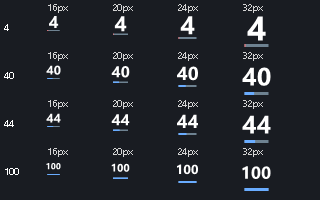
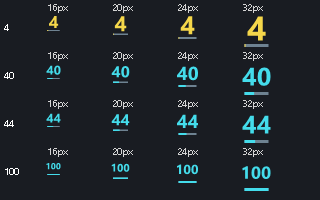
Color remaining quota by its pace against time to reset

diff --git a/TrayIcon.cs b/TrayIcon.cs
@@ -11,10 +11,22 @@ internal static class TrayIcon
     public static readonly Color Green = Color.FromArgb(89, 205, 164);
     public static readonly Color Amber = Color.FromArgb(247, 183, 83);
     public static readonly Color Red = Color.FromArgb(247, 112, 116);
-    public static Color ColorFor(double? remaining, int? duration = null) => remaining switch
-    {
-        <= 10 => Red, <= 25 => Amber, _ => duration == 300 ? Green : Blue
-    };
+    public static Color ColorFor(UsageWindow? window, DateTimeOffset now, bool lightBackground = false) =>
+        (window?.PaceAt(now) ?? UsagePace.Unknown, lightBackground) switch
+        {
+            (UsagePace.Ahead, false) => Color.FromArgb(68, 220, 235),
+            (UsagePace.OnTrack, false) => Green,
+            (UsagePace.Behind, false) => Color.FromArgb(245, 215, 74),
+            (UsagePace.FarBehind, false) => Color.FromArgb(255, 153, 64),
+            (UsagePace.Critical, false) => Red,
+            (UsagePace.Ahead, true) => Color.FromArgb(0, 111, 126),
+            (UsagePace.OnTrack, true) => Color.FromArgb(0, 117, 66),
+            (UsagePace.Behind, true) => Color.FromArgb(135, 105, 0),
+            (UsagePace.FarBehind, true) => Color.FromArgb(173, 75, 0),
+            (UsagePace.Critical, true) => Color.FromArgb(189, 38, 48),
+            (_, true) => Color.FromArgb(65, 73, 85),
+            _ => Color.FromArgb(164, 173, 188)
+        };
 
     public static Icon Create(UsageSnapshot? snapshot, bool stale)
     {
@@ -24,7 +36,7 @@ internal static class TrayIcon
         finally { DestroyIcon(handle); }
     }
 
-    public static Bitmap Draw(UsageSnapshot? snapshot, bool stale, int size)
+    public static Bitmap Draw(UsageSnapshot? snapshot, bool stale, int size, DateTimeOffset? at = null, bool? lightBackground = null)
     {
         var bitmap = new Bitmap(size, size);
         using var graphics = Graphics.FromImage(bitmap);
@@ -35,7 +47,8 @@ internal static class TrayIcon
         var window = snapshot?.MostLimited;
         // A stale number must not masquerade as current usage.
         var label = stale ? "!" : window?.Remaining is { } remaining ? $"{Math.Floor(remaining):0}" : "–";
-        using var brush = new SolidBrush(stale ? Amber : IsLightTaskbar() ? Color.FromArgb(25, 31, 42) : Color.White);
+        var color = ColorFor(window, at ?? DateTimeOffset.UtcNow, lightBackground ?? IsLightTaskbar());
+        using var brush = new SolidBrush(stale ? Amber : color);
         // Fit the actual glyph outlines instead of relying on DrawString layout,
         // which can wrap or clip digits in a tiny DPI-scaled icon.
         using var family = new FontFamily("Segoe UI");
@@ -52,7 +65,7 @@ internal static class TrayIcon
         graphics.DrawLine(rail, 4, 30, 28, 30);
         if (!stale && window?.Remaining is { } left && left > 0)
         {
-            using var fill = new Pen(ColorFor(left, window.DurationMinutes), 3);
+            using var fill = new Pen(color, 3);
             graphics.DrawLine(fill, 4, 30, 4 + 24 * (float)(left / 100), 30);
         }
         return bitmap;

diff --git a/tests/Program.cs b/tests/Program.cs
@@ -18,6 +18,13 @@ internal static class Program
             foreach (var session in collectedCosts.RecentSessions) Console.WriteLine($"{session.DisplayName}: ${session.CostUSD:F2}");
             return 0;
         }
+        if (args.Contains("--pace-check"))
+        {
+            CheckPace();
+            Console.WriteLine($"PASS: {checks} focused pace checks");
+            return 0;
+        }
+        CheckPace();
         CheckWeekTime();
         if (args.Contains("--week-time-check"))
         {
@@ -116,6 +123,30 @@ internal static class Program
     {
         using var document = JsonDocument.Parse(json);
         return UsageSnapshot.Parse(document.RootElement, Now);
+    }
+
+    private static void CheckPace()
+    {
+        var sample = new UsageWindow("codex", "Codex", "primary", 50, 10080, Now.AddDays(3.5));
+        foreach (var (quota, expected) in new[]
+        {
+            (56.0, UsagePace.Ahead), (55.0, UsagePace.OnTrack),
+            (50.0, UsagePace.OnTrack), (45.0, UsagePace.OnTrack),
+            (44.9, UsagePace.Behind), (35.0, UsagePace.Behind),
+            (34.9, UsagePace.FarBehind), (20.0, UsagePace.FarBehind),
+            (19.9, UsagePace.Critical), (0.0, UsagePace.Critical)
+        })
+            Check((sample with { UsedPercent = 100 - quota }).PaceAt(Now) == expected,
+                $"Quota {quota}% against 50% time: {expected}");
+        Check(sample.PaceAt(Now.AddDays(1)) == UsagePace.Ahead, "Pace advances with time without new quota data");
+        Check((sample with { DurationMinutes = 300, ResetsAt = Now.AddMinutes(150) }).PaceAt(Now) == UsagePace.OnTrack,
+            "Short windows use their own duration");
+        Check((sample with { ResetsAt = null }).PaceAt(Now) == UsagePace.Unknown, "Unknown reset stays neutral");
+        Check((sample with { DurationMinutes = 0 }).PaceAt(Now) == UsagePace.Unknown, "Invalid duration stays neutral");
+        Check((sample with { UsedPercent = null }).PaceAt(Now) == UsagePace.Unknown, "Unknown quota stays neutral");
+        Check((sample with { ResetsAt = Now }).PaceAt(Now) == UsagePace.Unknown, "Expired quota is not shown as ahead");
+        Check((sample with { UsedPercent = 100, ResetsAt = Now.AddMinutes(1) }).PaceAt(Now) == UsagePace.Critical,
+            "Empty quota is red even near reset");
     }
 
     private static void CheckWeekTime()

diff --git a/TrayApp.cs b/TrayApp.cs
@@ -11,6 +11,7 @@ internal sealed class TrayApp : ApplicationContext
     private readonly CostHistorySettings costSettings = CostHistorySettings.Load();
     private readonly System.Windows.Forms.Timer hoverTimer = new() { Interval = 250 };
     private readonly System.Windows.Forms.Timer timer = new() { Interval = (int)PollInterval.TotalMilliseconds };
+    private readonly System.Windows.Forms.Timer colorTimer = new() { Interval = 60_000 };
     private readonly CancellationTokenSource lifetime = new();
     private readonly CodexClient client = new();
     private readonly ToolStripMenuItem refreshItem;
@@ -66,6 +67,8 @@ internal sealed class TrayApp : ApplicationContext
         };
         popup.RefreshRequested += async (_, _) => await RefreshAsync();
         timer.Tick += async (_, _) => await RefreshAsync();
+        colorTimer.Tick += (_, _) => UpdateTrayIcon();
+        colorTimer.Start();
         SystemEvents.PowerModeChanged += OnPowerModeChanged;
         SystemEvents.UserPreferenceChanged += OnPreferencesChanged;
         UpdateDisplay();
@@ -102,12 +105,17 @@ internal sealed class TrayApp : ApplicationContext
         }
     }
 
-    private void UpdateDisplay()
+    private void UpdateTrayIcon()
     {
         var replacement = TrayIcon.Create(snapshot, IsStale || error is not null);
         tray.Icon = replacement;
         currentIcon?.Dispose();
         currentIcon = replacement;
+    }
+
+    private void UpdateDisplay()
+    {
+        UpdateTrayIcon();
         var summaries = snapshot?.Windows.Select(w => $"{w.WindowName}: {w.PercentText} left").ToArray() ?? [];
         var title = error is not null || IsStale ? "Codex · Update needed" : "Codex · Remaining";
         var tooltip = title + (summaries.Length > 0 ? "\n" + string.Join("\n", summaries) : loading ? "\nChecking…" : "\nClick for details");
@@ -211,6 +219,8 @@ internal sealed class TrayApp : ApplicationContext
         lifetime.Cancel();
         timer.Stop();
         timer.Dispose();
+        colorTimer.Stop();
+        colorTimer.Dispose();
         hoverTimer.Stop();
         hoverTimer.Dispose();
         tray.Visible = false;

diff --git a/Preview.cs b/Preview.cs
@@ -72,5 +72,29 @@ internal static class Preview
             row++;
         }
         sheet.Save(Path.Combine(directory, "icon-sizes.png"));
+
+        using var paceSheet = new Bitmap(660, 150);
+        using var paceCanvas = Graphics.FromImage(paceSheet);
+        paceCanvas.Clear(Color.FromArgb(25, 28, 34));
+        paceCanvas.FillRectangle(Brushes.WhiteSmoke, 0, 75, 660, 75);
+        var index = 0;
+        foreach (var quota in new[] { 75, 50, 40, 25, 10, 0 })
+        {
+            var sample = new UsageSnapshot(now, "pro",
+                [new("codex", "Codex", "primary", 100 - quota, 10080, now.AddDays(3.5))]);
+            foreach (var light in new[] { false, true })
+            {
+                var y = light ? 75 : 0;
+                paceCanvas.DrawString(sample.MostLimited!.PaceAt(now).ToString(), caption,
+                    light ? Brushes.Black : Brushes.White, index * 110 + 3, y + 3);
+                using var tiny = TrayIcon.Draw(sample, false, 16, now, light);
+                using var large = TrayIcon.Draw(sample, false, 32, now, light);
+                paceCanvas.DrawImageUnscaled(tiny, index * 110 + 8, y + 35);
+                paceCanvas.DrawImageUnscaled(large, index * 110 + 40, y + 25);
+            }
+            index++;
+        }
+        paceSheet.Save(Path.Combine(directory, "pace-colors.png"));
+
     }
 }

diff --git a/Usage.cs b/Usage.cs
@@ -2,6 +2,8 @@ using System.Text.Json;
 
 namespace CodexMeter;
 
+public enum UsagePace { Unknown, Ahead, OnTrack, Behind, FarBehind, Critical }
+
 public sealed record UsageWindow(string BucketId, string BucketName, string Slot,
     double? UsedPercent, int? DurationMinutes, DateTimeOffset? ResetsAt)
 {
@@ -11,6 +13,23 @@ public sealed record UsageWindow(string BucketId, string BucketName, string Slot
         ResetsAt is { } reset && DurationMinutes is > 0
             ? Math.Clamp((reset - now).TotalMinutes / DurationMinutes.Value * 100, 0, 100)
             : null;
+
+    public UsagePace PaceAt(DateTimeOffset now)
+    {
+        if (Remaining is not { } quota) return UsagePace.Unknown;
+        if (quota <= 0) return UsagePace.Critical;
+        if (ResetsAt is not { } reset || reset <= now || TimeRemainingPercent(now) is not { } time)
+            return UsagePace.Unknown;
+        var difference = quota - time;
+        return difference switch
+        {
+            > 5 => UsagePace.Ahead,
+            >= -5 => UsagePace.OnTrack,
+            >= -15 => UsagePace.Behind,
+            >= -30 => UsagePace.FarBehind,
+            _ => UsagePace.Critical
+        };
+    }
 
     public string WeekTimeText(DateTimeOffset now) =>
         DurationMinutes == 10080 && TimeRemainingPercent(now) is { } remaining

diff --git a/UsagePopup.cs b/UsagePopup.cs
@@ -182,7 +182,7 @@ internal sealed class UsageCard : Control
         graphics.TextRenderingHint = System.Drawing.Text.TextRenderingHint.ClearTypeGridFit;
         var now = DateTimeOffset.UtcNow;
         UpdateAccessibleName(now);
-        var color = stale ? Color.FromArgb(164, 173, 188) : TrayIcon.ColorFor(window.Remaining, window.DurationMinutes);
+        var color = stale ? Color.FromArgb(164, 173, 188) : TrayIcon.ColorFor(window, DateTimeOffset.UtcNow);
         using var headingFont = new Font("Segoe UI", 13.33f, FontStyle.Regular, GraphicsUnit.Pixel);
         using var numberFont = new Font("Segoe UI", window.Remaining is null ? 28 : 40, FontStyle.Bold, GraphicsUnit.Pixel);
         using var detailFont = new Font("Segoe UI", 12, FontStyle.Regular, GraphicsUnit.Pixel);

diff --git a/README.md b/README.md
@@ -24,6 +24,7 @@ Windows may initially put the icon under the tray's **^** overflow. Drag it besi
 ## Use
 
 - **Tray number:** lowest percentage remaining across reported windows.
+- **Number color:** compares remaining quota with remaining time in the same window. Within ±5 percentage points is green; more than 5 points ahead is cyan. A deficit above 5 through 15 points is yellow, above 15 through 30 is orange, and above 30 is red. Empty quota is red. Missing or expired timing data is neutral gray. The tray color updates locally each minute without additional usage requests.
 - **Left-click:** all percentages, reset countdowns, local reset dates, and the last successful update time.
 - **Weekly progress bar:** upper lane shows quota remaining; the gold lower lane shows the percentage of the week remaining until reset. Both lanes and their text labels stay visible regardless of which is higher. Time is calculated from the reported reset and window duration, and updates every minute while the panel is open.
 - **Right-click:** Show limits, Refresh now, Show cost history, Choose cost-history file, Start with Windows, or Quit.
